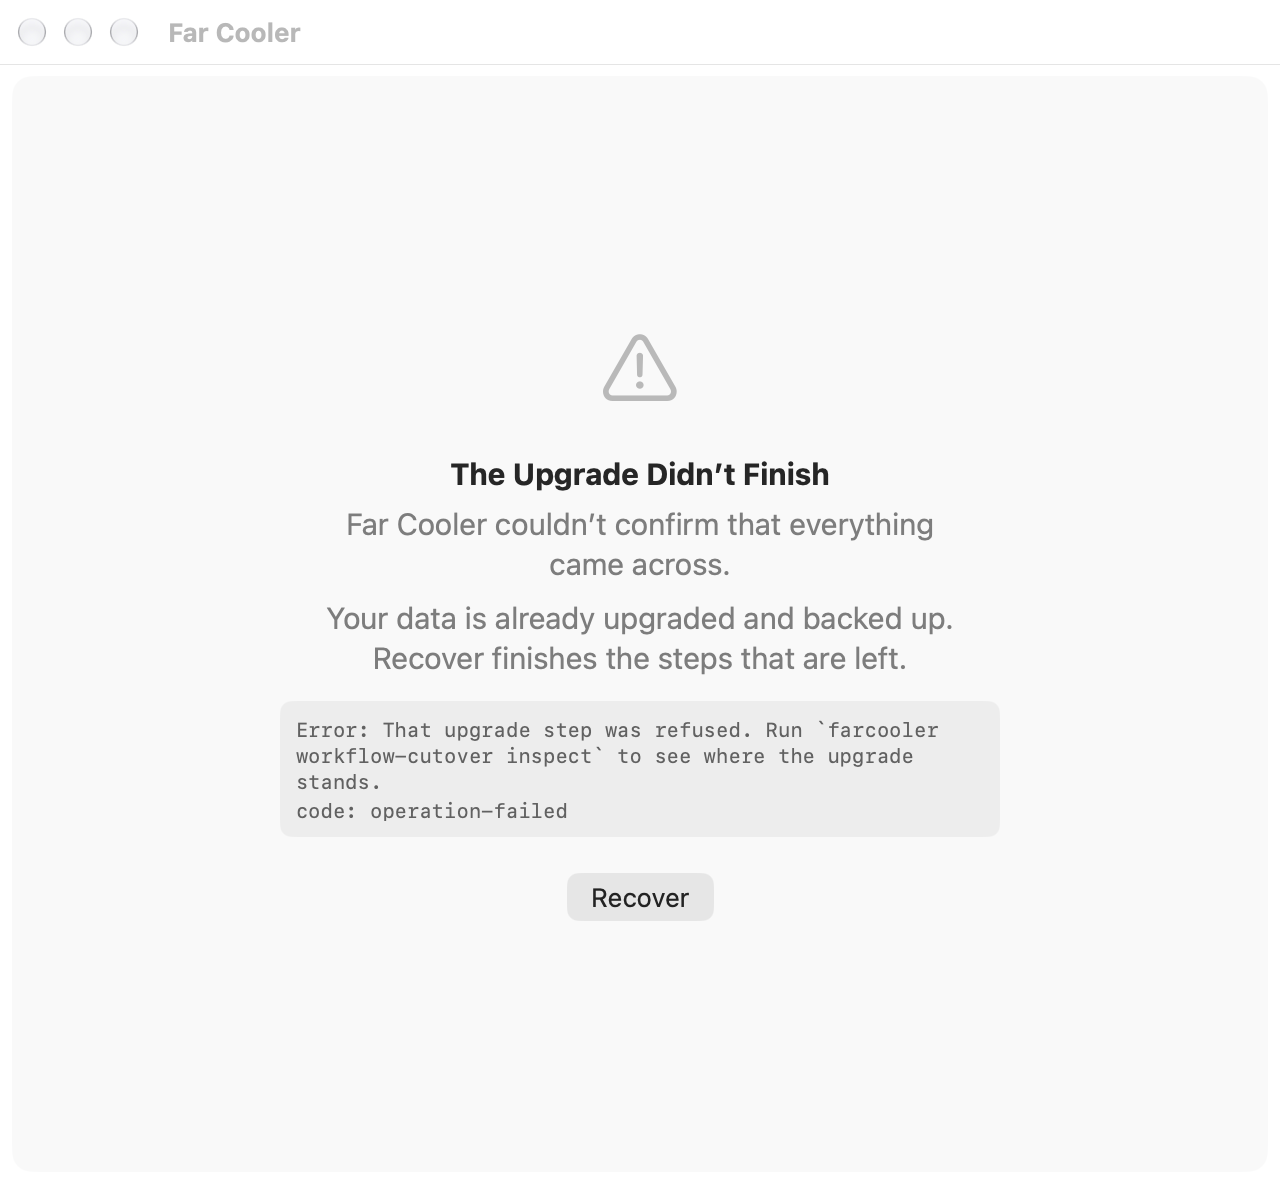
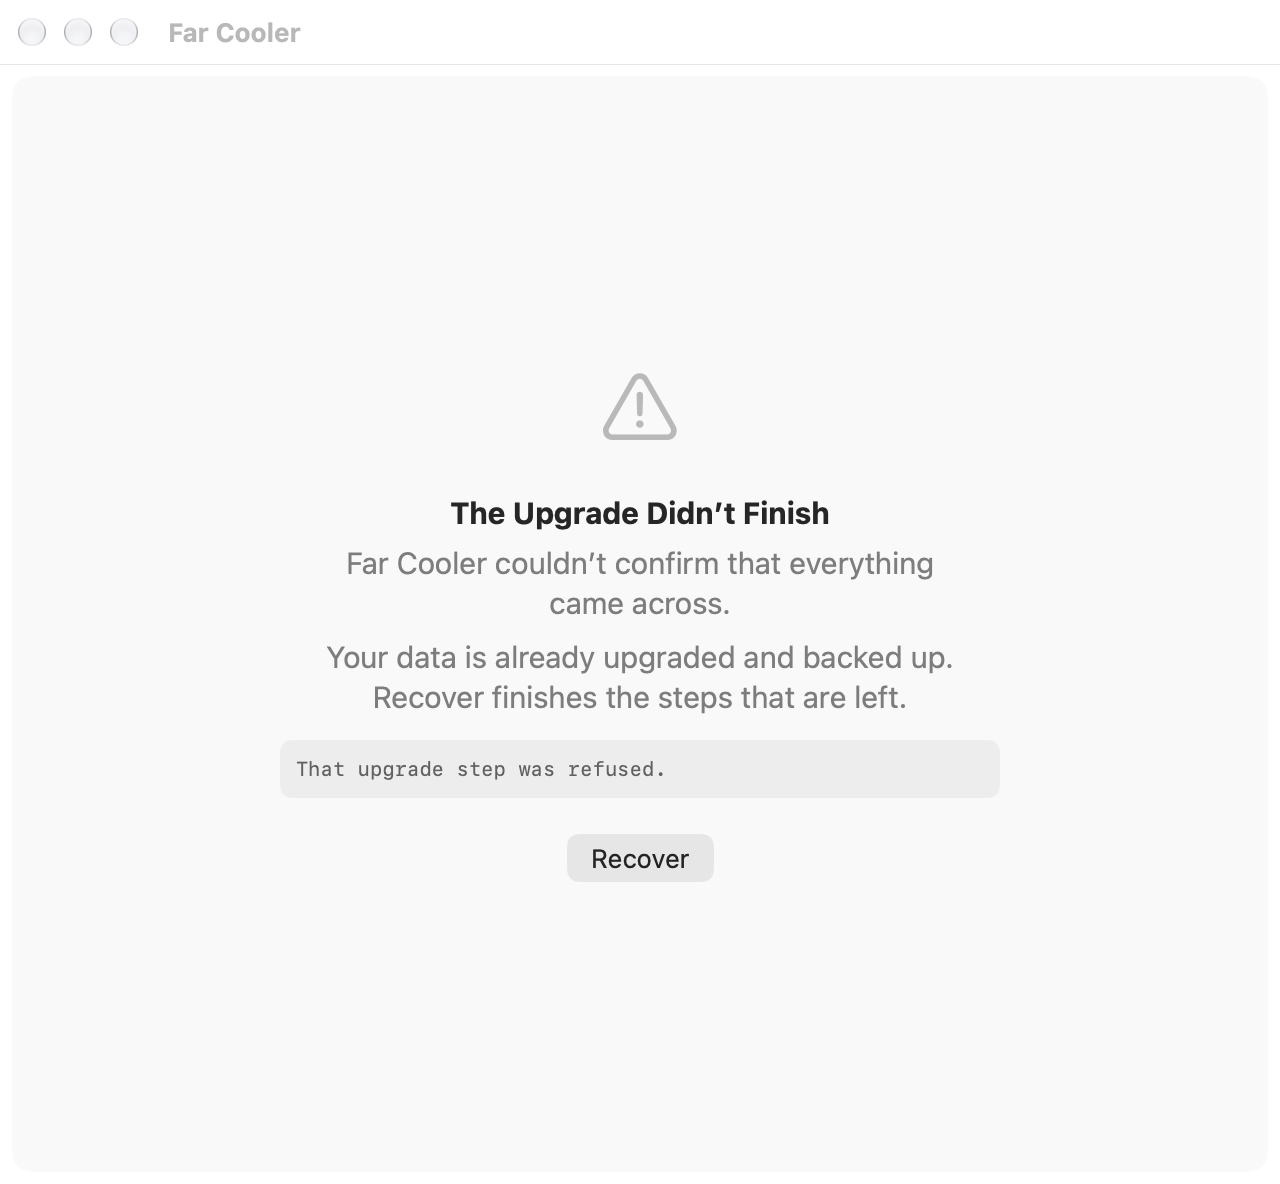
mac: the recovery screen's Recover copy follows where the runner stands, offers no retry for a refusal that will come again, shows the runner's sentences without terminal words, and says the runner restarts (ov-984 fix round)

Changed region(s): [[0.2188, 0.2812, 0.75, 0.6875], [0.4688, 0.7188, 0.5312, 0.7812]]

diff --git a/apps/macos/Tests/CeremonyTests/RunnerUpgradeTests.swift b/apps/macos/Tests/CeremonyTests/RunnerUpgradeTests.swift
@@ -103,7 +103,7 @@ struct RunnerUpgradeTests {
         let upgrade = RunnerUpgrade(driver: runner.driver)
         await upgrade.finish()
         #expect(upgrade.phase == .failed(.step(.commit), detail: "refused"))
-        #expect(RunnerUpgrade.recoverCopy(for: .step(.commit)).contains("exactly as it was"))
+        #expect(!RunnerUpgrade.recoverCopy(for: .step(.commit)).contains("exactly as it was"), "Commit may have landed")
         let refreshed = Counter()
         await upgrade.recover { refreshed.bump() }
         #expect(runner.prompts == [RunnerUpgrade.finishReason, RunnerUpgrade.recoverReason])
@@ -181,6 +181,86 @@ struct RunnerUpgradeTests {
         await upgrade.finish()
         #expect(upgrade.phase == .failed(.step(.prepare), detail: "not json"))
         #expect(runner.ops == ["inspect"])
+    }
+
+    /// Recover's promise follows where the runner stands, which a failed Commit
+    /// can't tell (its reply may have been lost after it landed).
+    @Test func aFailedCommitDoesNotPromiseAnExactRestore() {
+        #expect(RunnerUpgrade.recoverCopy(for: .step(.prepare)).contains("exactly as it was"))
+        let commit = RunnerUpgrade.recoverCopy(for: .step(.commit))
+        #expect(!commit.contains("exactly as it was") && commit.contains("Recover"))
+    }
+
+    /// A refusal that will come again is not offered a retry, and the copy says
+    /// the upgrade needs help instead.
+    @Test func aRefusalThatWillComeAgainOffersNoRetry() async {
+        for words in [
+            "database changed since the upgrade; keeping it for review",
+            "the attempt’s closed backup is missing", "the attempt's closed backup is missing",
+        ] {
+            #expect(RunnerUpgrade.needsHelp(words), "\(words)")
+            let stuck = RunnerUpgrade.Phase.failed(.recover, detail: words)
+            #expect(RunnerUpgradeView.actions(for: stuck).isEmpty, "\(words)")
+            #expect(RunnerUpgrade.recoverCopy(for: .recover, detail: words).contains("needs help"))
+            #expect(!RunnerUpgrade.recoverCopy(for: .recover, detail: words).contains("again"))
+        }
+        #expect(!RunnerUpgrade.needsHelp("Another process (pid 9) has this runner's database open."))
+        let transient = RunnerUpgrade.Phase.failed(.recover, detail: "Another process (pid 9) has this runner's database open.")
+        #expect(RunnerUpgradeView.actions(for: transient) == [.recover])
+        #expect(RunnerUpgrade.recoverCopy(for: .recover, detail: "busy").contains("Try Recover again"))
+    }
+
+    /// The box holds the runner's sentences, not the CLI's labels or a pointer
+    /// to a terminal.
+    @Test func theRunnersWordsLoseTheTerminalPointerAndLabels() {
+        let said = "code: operation-failed\nwhat: x\n"
+            + "That upgrade step was refused. Run `farcooler workflow-cutover inspect` to see where the upgrade stands."
+        #expect(RunnerUpgrade.plainWords(said) == "That upgrade step was refused.")
+        #expect(RunnerUpgrade.plainWords("Another process has this runner's database open. Close it, then try again.")
+            == "Another process has this runner's database open. Close it, then try again.")
+        #expect(RunnerUpgrade.plainWords("code: operation-failed") == "")
+        // The CLI puts the message on the `error:` line itself: the label goes, the sentence stays.
+        #expect(
+            RunnerUpgrade.plainWords("error: scope denied: person required\ncode: scope-denied")
+                == "scope denied: person required")
+        #expect(
+            RunnerUpgrade.plainWords("Error: That upgrade step was refused. Run `farcooler workflow-cutover inspect` to see where.\ncode: operation-failed")
+                == "That upgrade step was refused.")
+    }
+
+    @Test func restartingSaysTheRunnerNotTheApp() {
+        #expect(RunnerUpgrade.Step.finish.title.contains("runner"))
+        #expect(!RunnerUpgrade.Step.finish.title.contains("Far Cooler"))
+    }
+
+    /// A second press while the first waits on Touch ID asks nothing more.
+    @Test func aDoublePressAsksOnce() async {
+        final class Gate: @unchecked Sendable {
+            let lock = NSLock()
+            var waiting: CheckedContinuation<RunnerUpgrade.Confirmed, Never>?
+            var asks = 0
+        }
+        let gate = Gate()
+        let runner = Runner()
+        let upgrade = RunnerUpgrade(
+            driver: .init(
+                run: { runner.run($0) },
+                confirm: { _ in
+                    // The first ask waits for the test; any other answers at once,
+                    // so a missing guard fails the count rather than hanging.
+                    let first = gate.lock.withLock { gate.asks += 1; return gate.asks == 1 }
+                    if !first { return .cancelled }
+                    return await withCheckedContinuation { c in gate.lock.withLock { gate.waiting = c } }
+                },
+                attempt: { "mac-test" }))
+        let first = Task { await upgrade.finish() }
+        while gate.lock.withLock({ gate.waiting }) == nil { await Task.yield() }
+        await upgrade.finish()
+        await upgrade.recover()
+        #expect(gate.lock.withLock { gate.asks } == 1)
+        gate.lock.withLock { gate.waiting }?.resume(returning: .cancelled)
+        await first.value
+        #expect(runner.asked.isEmpty)
     }
 
     @Test func aNewAttemptIsANameTheRunnerTakes() {

diff --git a/apps/macos/Sources/FarCooler/RunnerUpgrade.swift b/apps/macos/Sources/FarCooler/RunnerUpgrade.swift
@@ -49,7 +49,7 @@ final class RunnerUpgrade: ObservableObject {
             case .commit: "Making a backup and switching over"
             case .verify: "Checking everything came across"
             case .release: "Handing your data to this version"
-            case .finish: "Restarting Far Cooler"
+            case .finish: "Restarting this Mac’s runner"
             }
         }
 
@@ -60,7 +60,7 @@ final class RunnerUpgrade: ObservableObject {
             case .commit: "Far Cooler couldn’t make a backup and switch your data over."
             case .verify: "Far Cooler couldn’t confirm that everything came across."
             case .release: "Far Cooler couldn’t hand your data to this version."
-            case .finish: "Far Cooler couldn’t finish the upgrade and restart."
+            case .finish: "Far Cooler couldn’t finish the upgrade and restart this Mac’s runner."
             }
         }
 
@@ -137,16 +137,50 @@ final class RunnerUpgrade: ObservableObject {
     static let finishReason = "finish upgrading this Mac’s runner"
     static let recoverReason = "recover this Mac’s runner from an upgrade that didn’t finish"
 
-    /// Said under a failure: what Recover will do from here.
-    static func recoverCopy(for failed: Failed) -> String {
-        switch failed {
-        case .step(let step) where step.isCommitted:
-            "Your data is already upgraded and backed up. Recover finishes the steps that are left."
-        case .step:
-            "Your original data is kept. Recover puts it back exactly as it was."
-        case .recover:
-            "Your data hasn’t been changed by this. Try Recover again."
+    /// Said under a failure: what Recover will do from here. It follows where
+    /// the runner stands, which a failed Commit can't tell (it may have landed
+    /// with only its reply lost), so that one promises neither way.
+    static func recoverCopy(for failed: Failed, detail: String = "") -> String {
+        if needsHelp(detail) {
+            return "Your data is kept as it is, and nothing more was changed. This upgrade needs help to finish."
         }
+        switch failed {
+        case .step(.commit):
+            return "Your data is safe. Recover checks where the upgrade stands, then puts your original data back or finishes the steps that are left."
+        case .step(let step) where step.isCommitted:
+            return "Your data is already upgraded and backed up. Recover finishes the steps that are left."
+        case .step:
+            return "Your original data is kept. Recover puts it back exactly as it was."
+        case .recover:
+            return "Your data hasn’t been changed by this. Try Recover again."
+        }
+    }
+
+    /// Whether the runner refused for a reason that will come again, so
+    /// pressing Recover can't help: its data is kept for review, or the
+    /// backup it needs is gone.
+    nonisolated static func needsHelp(_ said: String) -> Bool {
+        let words = said.replacingOccurrences(of: "’", with: "'")
+        return ["keeping it for review", "closed backup is missing"].contains { words.contains($0) }
+    }
+
+    /// The runner's words for the box: its sentences, without the CLI's labels
+    /// (`error:` leads the message itself; `code:` and `what:` are lines of
+    /// their own) or a pointer to a terminal command.
+    nonisolated static func plainWords(_ said: String) -> String {
+        let kept = said.split(whereSeparator: \.isNewline)
+            .map { $0.trimmingCharacters(in: .whitespaces) }
+            .compactMap { line -> String? in
+                let lower = line.lowercased()
+                if lower.hasPrefix("code:") || lower.hasPrefix("what:") { return nil }
+                var words = line
+                if lower.hasPrefix("error:") { words = String(line.dropFirst("error:".count)) }
+                // "… Run `farcooler …` to …": the sentence that sends them to a terminal.
+                if let tick = words.range(of: "Run `farcooler") { words = String(words[..<tick.lowerBound]) }
+                words = words.trimmingCharacters(in: .whitespaces)
+                return words.isEmpty ? nil : words
+            }
+        return kept.joined(separator: "\n")
     }
 
     /// Said once the original data is back.

diff --git a/apps/macos/Sources/FarCooler/RunnerUpgradeView.swift b/apps/macos/Sources/FarCooler/RunnerUpgradeView.swift
@@ -20,7 +20,7 @@ struct RunnerUpgradeView: View {
     nonisolated static func actions(for phase: RunnerUpgrade.Phase) -> [Action] {
         switch phase {
         case .ready: [.finish]
-        case .failed: [.recover]
+        case .failed(_, let detail): RunnerUpgrade.needsHelp(detail) ? [] : [.recover]
         case .confirming, .running, .recovering, .done: []
         }
     }
@@ -76,11 +76,12 @@ struct RunnerUpgradeView: View {
         case .failed(let failed, let detail):
             VStack(spacing: 8) {
                 Text(Self.sentence(for: failed))
-                Text(RunnerUpgrade.recoverCopy(for: failed))
+                Text(RunnerUpgrade.recoverCopy(for: failed, detail: detail))
                 // The runner's own words in a box, never the app's voice:
                 // under the sentences, since the actions row lays out across.
-                if !detail.isEmpty {
-                    DetailBox(text: detail)
+                let words = RunnerUpgrade.plainWords(detail)
+                if !words.isEmpty {
+                    DetailBox(text: words)
                         .multilineTextAlignment(.leading)
                         .frame(maxWidth: 420)
                         .padding(.top, 4)

diff --git a/reports/ov-984/result.md b/reports/ov-984/result.md
@@ -27,3 +27,12 @@ Design: `design.md`. Scratch runners only; this Mac's runner and app were never 
 - **A real Touch ID press on the real app.** No agent can press the sensor. The real `.app`, launched by `open` against a scratch schema-60 home, with the button pressed by a person, is untried. That's acceptance 1's last step, and it's the owner's.
 - **The seat as the app.** The end to end proves a person's seat through an orphan pty, not through the app bundle on the chain. `vouches_for_a_person` already has its own tests.
 - **The words in the box.** The runner's generic refusal still says "Run `farcooler workflow-cutover inspect`", a terminal pointer, and it shows in the box. The sentence above it is plain. Changing the daemon's `Refused::said` would change the CLI's words too, so it's left as a follow-up.
+
+## Fix round (independent review's five minors)
+
+- Recover's copy no longer promises an exact restore after a failed Commit (that reply may have been lost after Commit landed); it says it checks where the upgrade stands first.
+- A refusal that will come again (data kept for review, backup missing) shows "This upgrade needs help to finish" and no Recover button; transient failures keep "Try Recover again".
+- The box shows the runner's sentences without `error:`/`code:`/`what:` labels or the "Run `farcooler …`" pointer.
+- The last step reads "Restarting this Mac's runner", not the app.
+- A double press asks for Touch ID once (new test).
+- Each new test was seen red against its mutant, one at a time (title, guard, needs-help, plain words, commit copy). 20 of 20 green; captures retaken at 640 pt.
